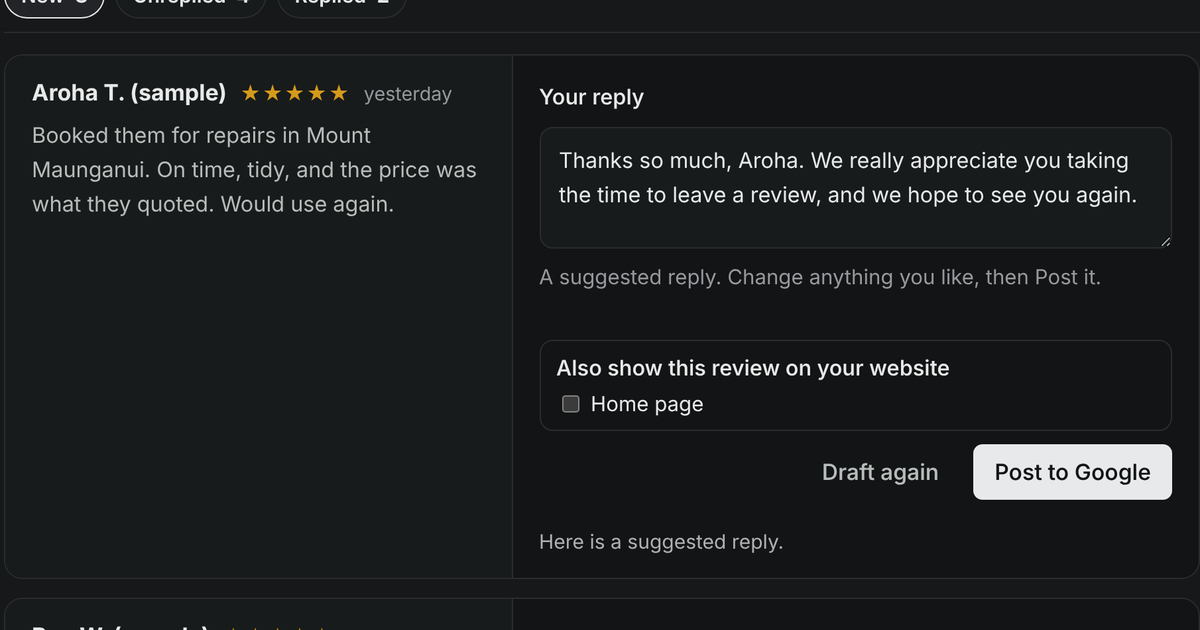
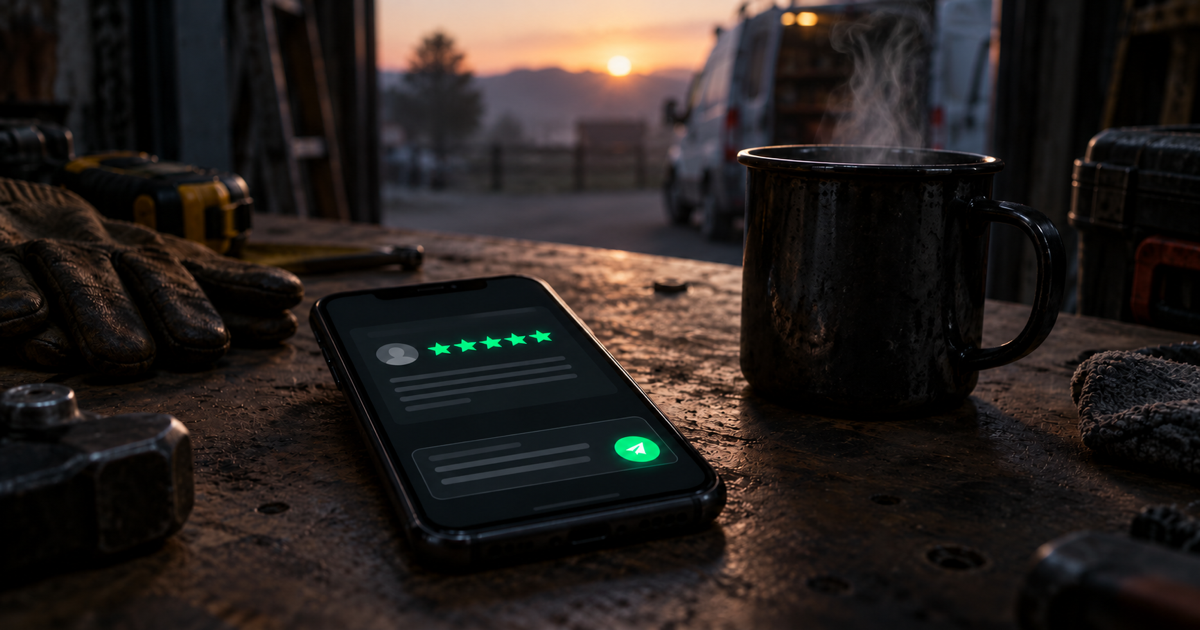
Tools and blog: Jay's hero and card images
Claude-Session: https://claude.ai/code/session_01M8QbtW8aGuTo9bpiTP3hP8

diff --git a/tools.html b/tools.html
@@ -433,8 +433,8 @@
 .tool-card--reviews .tool-card__media::before{background-size:135% auto;background-position:0 50%}
 .tool-card--quote .tool-card__media::before{background-size:150% auto;background-position:0 34%}
 @media (min-width:881px){.tools-dash .tools-grid{grid-template-columns:repeat(2,minmax(0,1fr))}.tools-dash .tool-card__media{height:240px}}
-.tool-card--photos .tool-card__media::before{background-image:radial-gradient(circle at 75% 30%, rgba(6,204,93,0.30) 0%, rgba(14,26,20,0) 60%),linear-gradient(135deg,#16241c 0%,#0e1a14 100%)}
-.tool-card--dispatch .tool-card__media::before{background-image:radial-gradient(circle at 25% 35%, rgba(6,204,93,0.30) 0%, rgba(14,26,20,0) 60%),linear-gradient(135deg,#16241c 0%,#0e1a14 100%)}
+.tool-card--photos .tool-card__media::before{background-image:url('/assets/blog/dashboard-photo-descriptions.webp');background-position:center}
+.tool-card--dispatch .tool-card__media::before{background-image:url('/assets/blog/dashboard-dispatch.webp');background-position:center}
 .tool-card--dash .tool-card__media::after{background:linear-gradient(180deg, rgba(14,26,20,0) 30%, rgba(14,26,20,0.85) 100%)}
 .tool-card__free{color:var(--paper-mid)}
 @media(max-width:560px){
